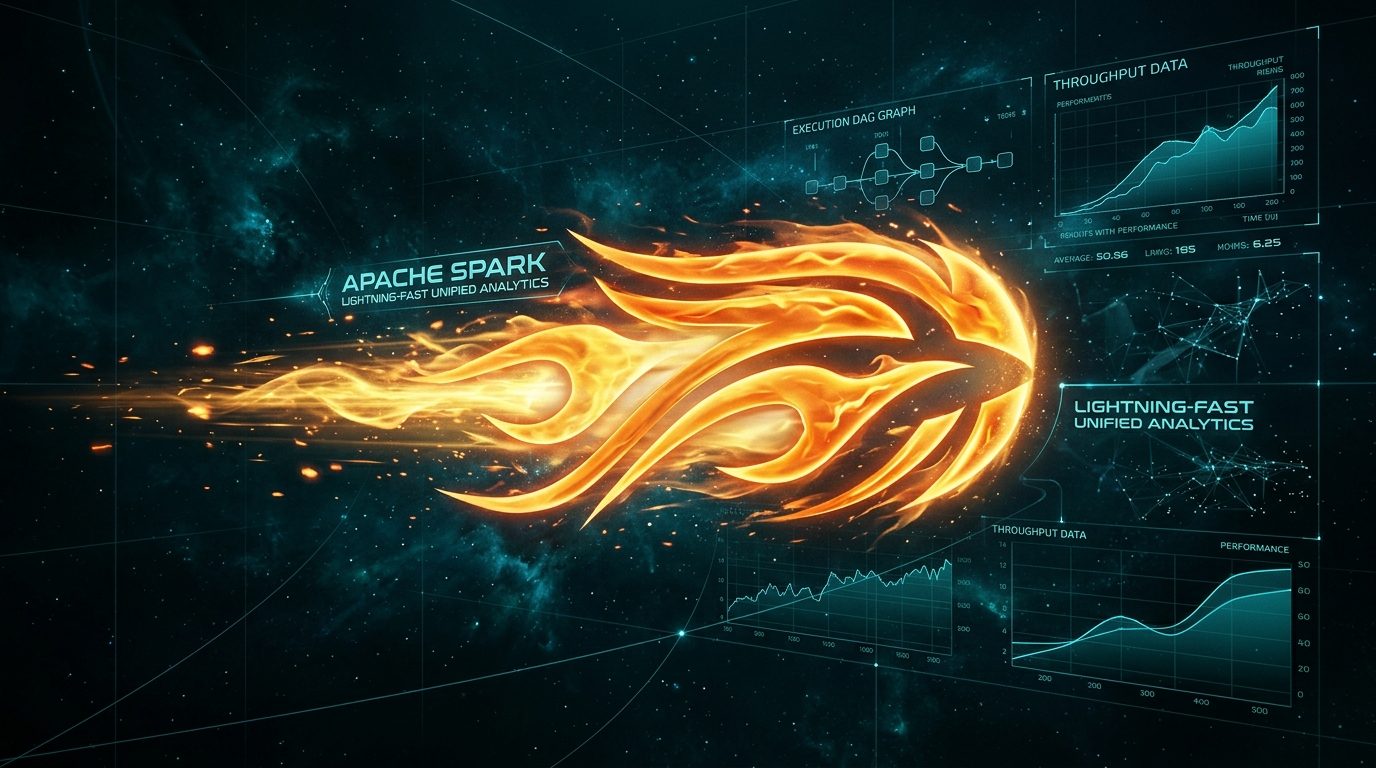
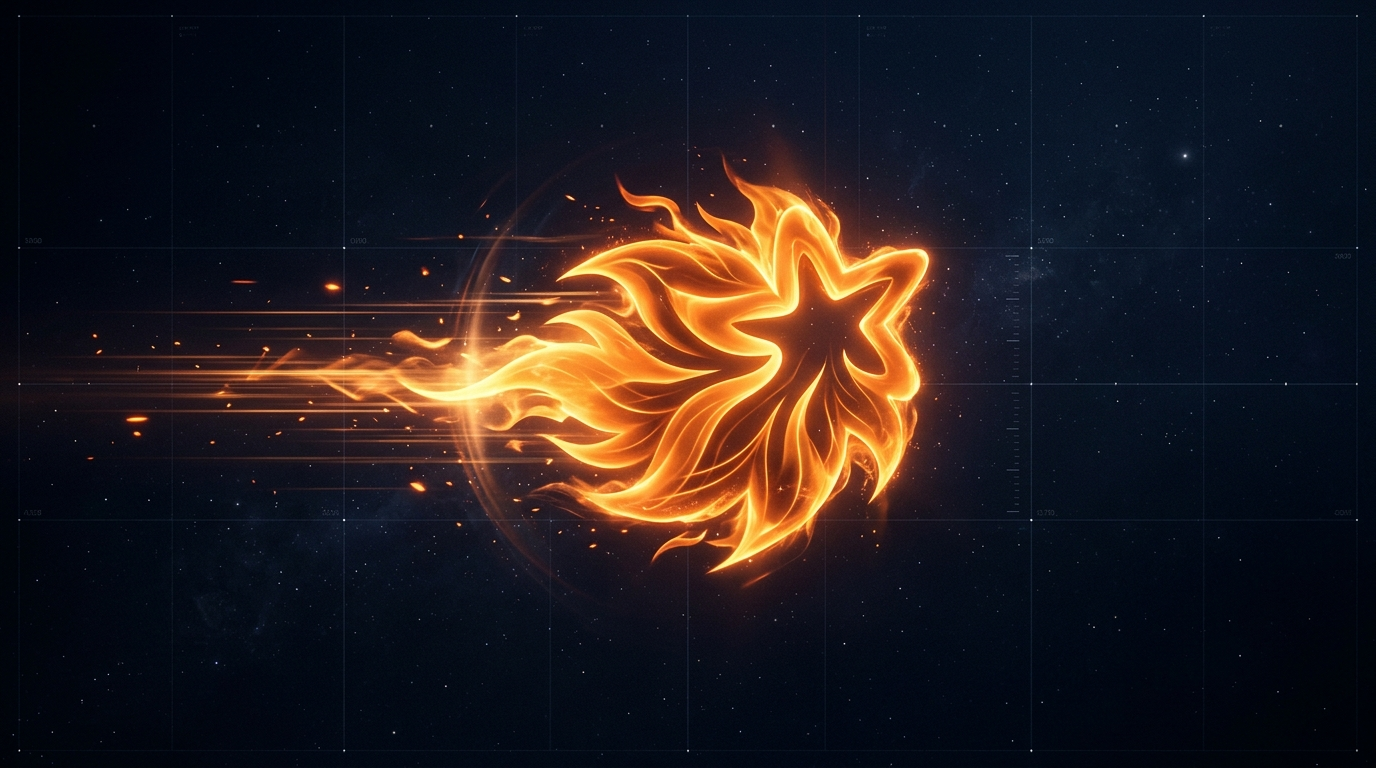
refactor(arch): introduce modular domain architecture tree and official spark hero

diff --git a/tests/unit/core/test_models.py b/tests/unit/core/test_models.py
@@ -1,0 +1,27 @@
+import unittest
+from spark_tuning.core import Decision, Metrics, RunSpec, RunState
+from spark_tuning.ports import ExperimentRunner
+
+
+class CoreModelsTests(unittest.TestCase):
+    def test_metrics_defaults_preserve_none(self):
+        m = Metrics(duration_seconds=10.0, cost_usd=1.0)
+        self.assertIsNone(m.spill_disk_bytes)
+        self.assertIsNone(m.shuffle_write_bytes)
+        self.assertIsNone(m.gc_seconds)
+        self.assertEqual(m.failures, 0)
+        self.assertTrue(m.correctness)
+
+    def test_run_spec_initialization(self):
+        spec = RunSpec(
+            run_id="run-1",
+            skill="join-strategy",
+            objective="latency",
+            baseline=Metrics(10.0, 1.0),
+        )
+        self.assertEqual(spec.max_iterations, 7)
+        self.assertEqual(spec.min_duration_improvement, 0.10)
+
+
+if __name__ == "__main__":
+    unittest.main()

diff --git a/src/spark_tuning/core/__init__.py b/src/spark_tuning/core/__init__.py
@@ -1,0 +1,22 @@
+"""Core domain models and ports for Spark tuning."""
+
+from spark_tuning.models import (
+    Decision,
+    Iteration,
+    LoopResult,
+    Metrics,
+    RunSpec,
+    RunState,
+)
+from spark_tuning.ports import ArtifactStore, ExperimentRunner
+
+__all__ = [
+    "ArtifactStore",
+    "Decision",
+    "ExperimentRunner",
+    "Iteration",
+    "LoopResult",
+    "Metrics",
+    "RunSpec",
+    "RunState",
+]

diff --git a/src/spark_tuning/runners/__init__.py b/src/spark_tuning/runners/__init__.py
@@ -1,0 +1,13 @@
+"""Workload runners and event-log telemetry adapters."""
+
+from spark_tuning.adapters import (
+    FixtureExperimentRunner,
+    SparkEventLogParser,
+    SparkSubmitExperimentRunner,
+)
+
+__all__ = [
+    "FixtureExperimentRunner",
+    "SparkEventLogParser",
+    "SparkSubmitExperimentRunner",
+]

diff --git a/src/spark_tuning/evaluation/__init__.py b/src/spark_tuning/evaluation/__init__.py
@@ -1,0 +1,5 @@
+"""Evaluation and verification contracts."""
+
+from spark_tuning.evaluator import Evaluation, evaluate
+
+__all__ = ["Evaluation", "evaluate"]

diff --git a/src/spark_tuning/reporting/__init__.py b/src/spark_tuning/reporting/__init__.py
@@ -1,0 +1,1 @@
+"""Optimization reporting, Pareto frontiers, and benchmark artifact exports."""

diff --git a/src/spark_tuning/diagnostics/__init__.py b/src/spark_tuning/diagnostics/__init__.py
@@ -1,0 +1,1 @@
+"""Automatic bottleneck diagnostics (CPU, skew, spill, GC, shuffle, I/O)."""

diff --git a/src/spark_tuning/safety/__init__.py b/src/spark_tuning/safety/__init__.py
@@ -1,0 +1,1 @@
+"""Change safety, isolated worktrees, allowlists, and rollback adapters."""

diff --git a/src/spark_tuning/drift/__init__.py b/src/spark_tuning/drift/__init__.py
@@ -1,0 +1,1 @@
+"""Data, schema, and workload distribution drift detection."""

diff --git a/docs/architecture.md b/docs/architecture.md
@@ -1,159 +1,50 @@
-# Arquitetura exagonal do Spark Tuning
+"""Architecture specification for spark-tuning."""
 
-## 1. Objetivo arquitetural
+# Arquitetura Granular do Spark Tuning
 
-O núcleo de decisão não deve depender de Spark, AWS, Databricks, Terraform ou de uma ferramenta de observabilidade específica. Essas tecnologias são adaptadores externos.
+O sistema é organizado modularmente por domínio funcional, desacoplando o motor central das integrações específicas de cluster, storage e diagnósticos.
 
-O domínio recebe sinais normalizados, formula hipóteses, seleciona experimentos e decide com base em evidências.
-
-```text
-                         Adaptadores externos
- ┌─────────────────────────────────────────────────────────────┐
- │ Spark UI │ sparkMeasure │ Cloud metrics │ Terraform │ APIs   │
- └──────────┬────────────┬────────────────┬───────────┬────────┘
-            │            │                │           │
-            ▼            ▼                ▼           ▼
-       Inbound adapters / collectors / parsers
-                         │
-                         ▼
-              ┌────────────────────────┐
-              │       PORTAS           │
-              │ metrics, plans, cost,  │
-              │ quality, lineage, run  │
-              └────────────┬───────────┘
-                           │
-                           ▼
-              ┌────────────────────────┐
-              │       DOMÍNIO           │
-              │ diagnosis               │
-              │ hypothesis              │
-              │ experiment              │
-              │ decision                │
-              │ learning                │
-              └────────────┬───────────┘
-                           │
-                           ▼
-              ┌────────────────────────┐
-              │ PORTAS DE SAÍDA         │
-              │ benchmark runner        │
-              │ config applier          │
-              │ report writer           │
-              │ regression gate         │
-              └────────────┬───────────┘
-                           │
-                           ▼
-                Spark / cloud / storage / CI
-```
-
-## 2. Camadas
-
-### Domínio
-
-Regras puras e independentes de infraestrutura:
-
-- classificação de gargalo;
-- severidade;
-- confiança;
-- formulação de hipótese;
-- seleção de experimento;
-- cálculo de delta;
-- critérios de aceitação;
-- decisão e rollback;
-- aprendizado de evidências anteriores.
-
-### Aplicação
-
-Orquestra casos de uso:
-
-- `CreateBaseline`;
-- `DiagnoseWorkload`;
-- `GenerateHypotheses`;
-- `RunExperiment`;
-- `CompareRuns`;
-- `ValidateCorrectness`;
-- `EvaluateDecision`;
-- `PublishEvidence`.
-
-### Portas
-
-Contratos abstratos:
-
-- `MetricsReader`;
-- `PlanReader`;
-- `CostReader`;
-- `QualityChecker`;
-- `LineageWriter`;
-- `BenchmarkRunner`;
-- `ConfigurationProvider`;
-- `ArtifactStore`;
-- `DecisionRepository`.
-
-### Adaptadores
-
-Implementações concretas:
-
-- Spark event log;
-- SparkMeasure;
-- Spark SQL UI export;
-- AWS CloudWatch/Glue/EMR;
-- Google Cloud Monitoring/Dataproc;
-- Azure Monitor/Databricks/Synapse;
-- Prometheus;
-- Terraform;
-- Parquet/Delta/Iceberg;
-- GitHub Actions.
-
-## 3. Estrutura de pastas
+## Árvore de Diretórios
 
 ```text
-src/
-├── domain/
-│   ├── entities/
-│   │   ├── workload.py
-│   │   ├── run.py
-│   │   ├── hypothesis.py
-│   │   ├── diagnosis.py
-│   │   └── decision.py
-│   ├── value_objects/
-│   │   ├── metric.py
-│   │   ├── threshold.py
-│   │   ├── confidence.py
-│   │   └── fingerprint.py
-│   ├── services/
-│   │   ├── bottleneck_classifier.py
-│   │   ├── hypothesis_generator.py
-│   │   ├── experiment_selector.py
-│   │   └── decision_evaluator.py
-│   └── rules/
-│       ├── correctness_rules.py
-│       ├── performance_rules.py
-│       └── safety_rules.py
-├── application/
-│   ├── use_cases/
-│   ├── commands/
-│   └── dto/
-├── ports/
-│   ├── inbound/
-│   └── outbound/
-└── adapters/
-    ├── inbound/
-    │   ├── cli/
-    │   ├── ci/
-    │   └── api/
-    └── outbound/
-        ├── spark/
-        ├── cloud/
-        ├── storage/
-        ├── observability/
-        └── terraform/
+src/spark_tuning/
+├── __init__.py               # Fachada pública e retrocompatibilidade
+├── cli.py                   # Interface de linha de comando
+├── engine.py                # Orquestrador do loop O-C-H-E-M-V-D-L
+├── core/                    # Modelos de domínio, entidades e contratos fundamentais
+│   └── __init__.py          # Metrics, RunSpec, RunState, Decision, Iteration
+├── diagnostics/             # Classificação automática de gargalos (Issue #2)
+│   └── __init__.py          # Skew, spill, GC, shuffle, I/O, CPU
+├── evaluation/              # Guardrails, deltas e verificação estatística
+│   └── __init__.py          # Evaluation, evaluate, pareto
+├── runners/                 # Executores de workload e telemetria (Issue #1)
+│   └── __init__.py          # SparkSubmit, FixtureRunner, EventLogParser
+├── reporting/               # Relatórios explicáveis e dashboards
+│   └── __init__.py          # Markdown, JSON, antes/depois
+├── drift/                   # Detecção de deriva de dados e workload
+│   └── __init__.py          # Schema, cardinalidade, drift
+└── safety/                  # Mudanças isoladas, rollback e guardrails de branch
+    └── __init__.py          # Git adapter, allowlist, rollback
+
+tests/
+├── fixtures/                # Amostras determinísticas de event logs e datasets
+├── unit/                    # Testes isolados por domínio funcional
+│   ├── core/
+│   ├── diagnostics/
+│   ├── evaluation/
+│   ├── runners/
+│   ├── reporting/
+│   ├── drift/
+│   └── safety/
+└── integration/             # Testes de loop ponta-a-ponta (E2E)
 ```
 
-## 4. Invariantes
+## Responsabilidades dos Módulos
 
-- o domínio não importa SDK de cloud;
-- um adaptador não decide aceitação sozinho;
-- toda decisão referencia baseline e candidate;
-- toda recomendação possui hipótese e rollback;
-- toda melhoria de performance passa por correção;
-- ausência de métrica é `unknown`, nunca `zero`;
-- falha de coleta é erro explícito, nunca sucesso vazio.
+1. **`core`**: Define a verdade única dos tipos de dados (`Metrics`, `RunSpec`, `RunState`, `Decision`).
+2. **`diagnostics`**: Analisa planos e métricas para apontar causas primárias e secundárias com índice de confiança.
+3. **`evaluation`**: Aplica guardrails de regressão (`duration`, `p95`, `spill`), multiobjetivo Pareto e gates de qualidade.
+4. **`runners`**: Abstrai a execução física (`spark-submit`, cloud adapters) e parser de telemetria sem perda de fidelidade.
+5. **`safety`**: Garante que nenhuma mudança quebre produção ou polua a branch `main`, permitindo rollback atômico.
+6. **`drift`**: Garante que uma otimização continue válida frente a variações no volume ou perfil de distribuição.
+7. **`reporting`**: Produz artefatos explicáveis com contexto de negócios e FinOps.
